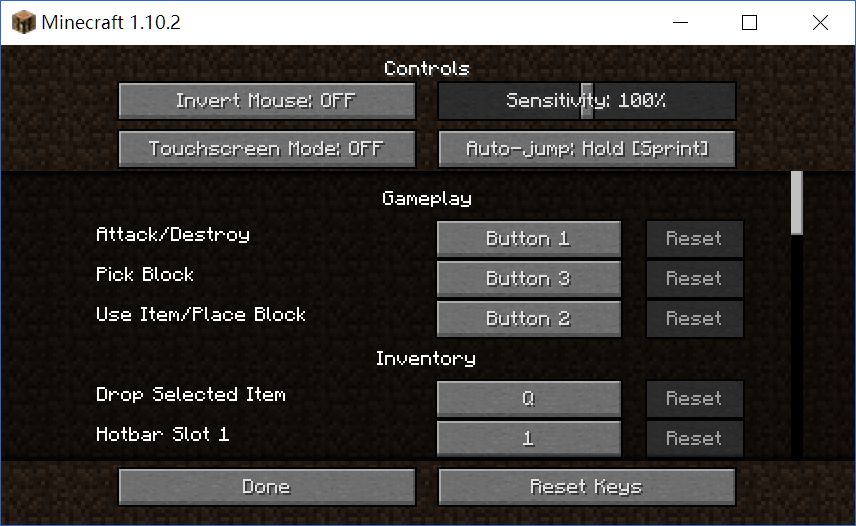
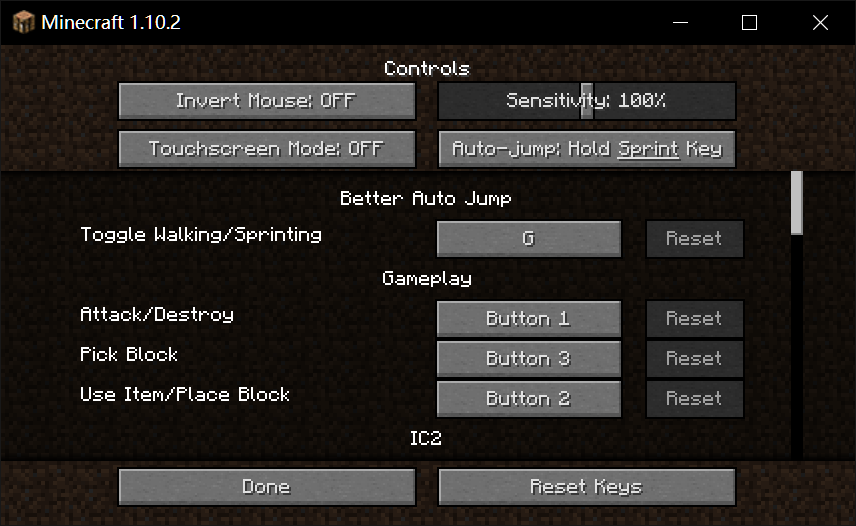
update image

diff --git a/src/main/java/com/mmyzd/betterautojump/BetterAutoJump.java b/src/main/java/com/mmyzd/betterautojump/BetterAutoJump.java
@@ -5,6 +5,7 @@ import org.lwjgl.input.Keyboard;
 import net.minecraft.client.Minecraft;
 import net.minecraft.client.settings.KeyBinding;
 import net.minecraftforge.client.event.RenderGameOverlayEvent;
+import net.minecraftforge.client.settings.KeyConflictContext;
 import net.minecraftforge.common.MinecraftForge;
 import net.minecraftforge.fml.client.registry.ClientRegistry;
 import net.minecraftforge.fml.common.Mod;
@@ -37,7 +38,7 @@ public class BetterAutoJump {
 	public void init(FMLInitializationEvent event) {
 		MinecraftForge.EVENT_BUS.register(config);
 		MinecraftForge.EVENT_BUS.register(this);
-		keyToggleWalking = new KeyBinding("key.betterautojump.toggle_walking", Keyboard.KEY_G, "key.categories.betterautojump");
+		keyToggleWalking = new KeyBinding("key.betterautojump.toggle_walking", KeyConflictContext.IN_GAME, Keyboard.KEY_G, "key.categories.betterautojump");
 		ClientRegistry.registerKeyBinding(keyToggleWalking);
 	}
 	
